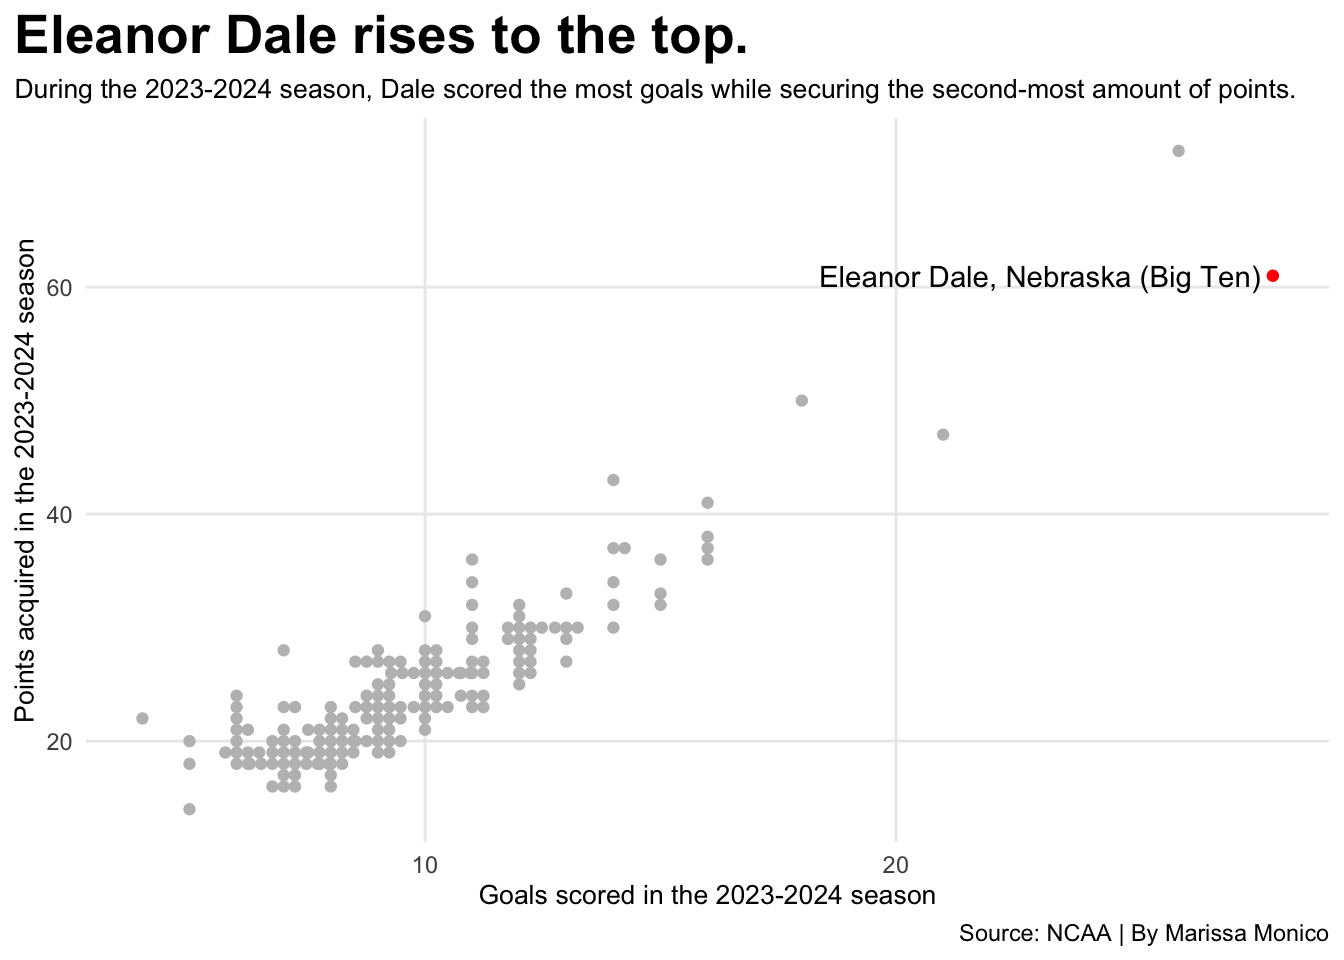
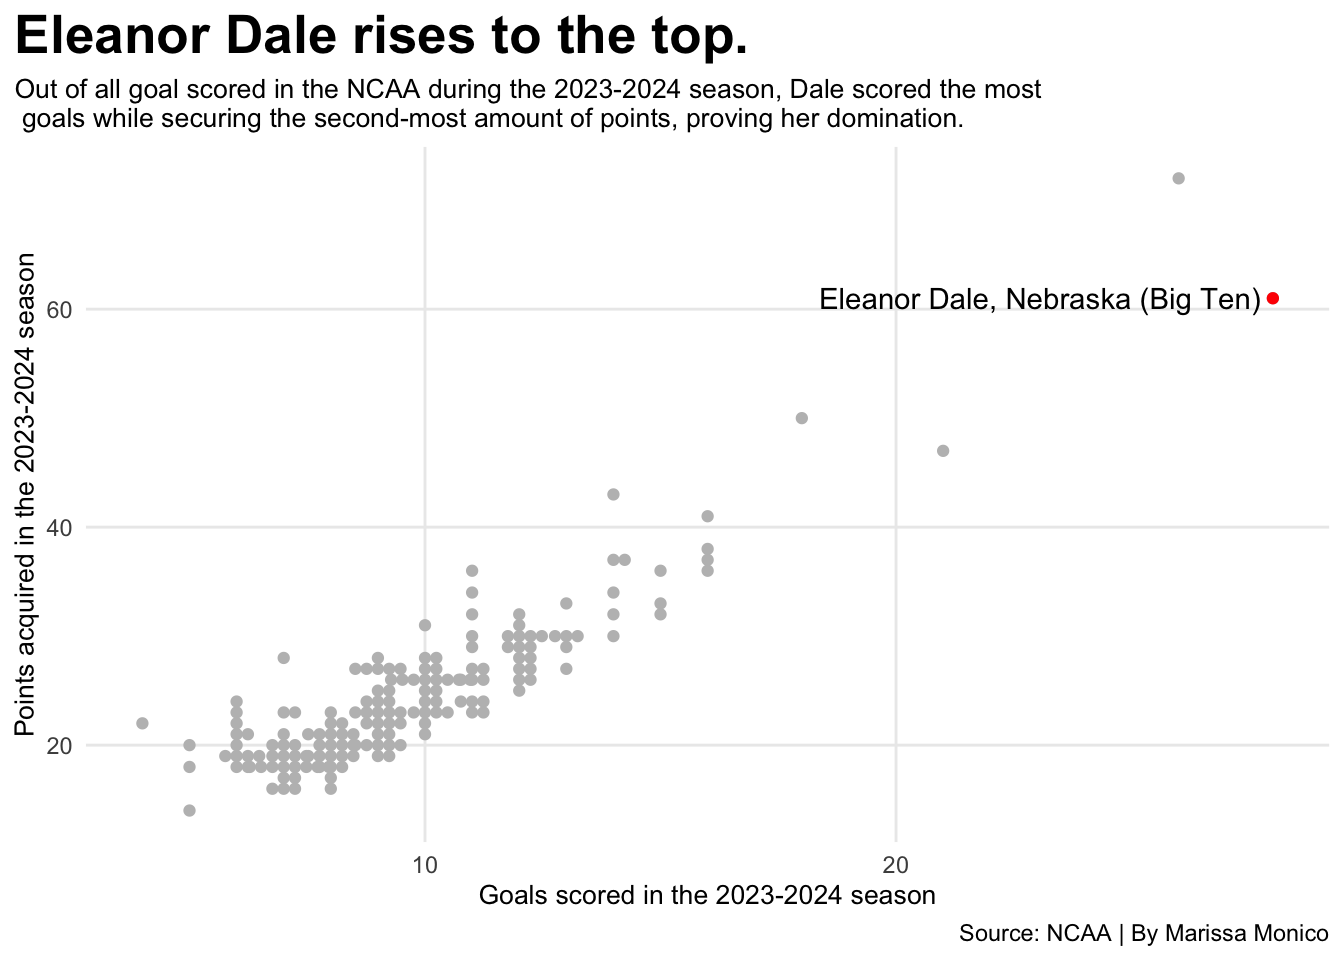
fix5

diff --git a/posts/nebraska-womens-soccer-b1g/index.html b/posts/nebraska-womens-soccer-b1g/index.html
@@ -7,9 +7,9 @@
 <meta name="viewport" content="width=device-width, initial-scale=1.0, user-scalable=yes">
 
 <meta name="author" content="Marissa Monico">
-<meta name="dcterms.date" content="2026-04-01">
+<meta name="dcterms.date" content="2026-04-09">
 
-<title>Is is possible for one player to carry the whole team? 2023 Nebraska women’s soccer is the perfect team to look at. – Marissa Monico's Blog</title>
+<title>Is is possible for one player to carry the whole program? 2023 Nebraska women’s soccer is the perfect team to look at. – Marissa Monico's Blog</title>
 <style>
 code{white-space: pre-wrap;}
 span.smallcaps{font-variant: small-caps;}
@@ -154,7 +154,7 @@ pre > code.sourceCode > span > a:first-child::before { text-decoration: underlin
 <header id="title-block-header" class="quarto-title-block default page-columns page-full">
   <div class="quarto-title-banner page-columns page-full">
     <div class="quarto-title column-body">
-      <h1 class="title">Is is possible for one player to carry the whole team? 2023 Nebraska women’s soccer is the perfect team to look at.</h1>
+      <h1 class="title">Is is possible for one player to carry the whole program? 2023 Nebraska women’s soccer is the perfect team to look at.</h1>
                                 <div class="quarto-categories">
                 <div class="quarto-category">nebraska</div>
                 <div class="quarto-category">soccer</div>
@@ -178,7 +178,7 @@ pre > code.sourceCode > span > a:first-child::before { text-decoration: underlin
       <div>
       <div class="quarto-title-meta-heading">Published</div>
       <div class="quarto-title-meta-contents">
-        <p class="date">April 1, 2026</p>
+        <p class="date">April 9, 2026</p>
       </div>
     </div>
     
@@ -197,7 +197,10 @@ pre > code.sourceCode > span > a:first-child::before { text-decoration: underlin
 
 
 
-<p>words words words.</p>
+<p>Nebraska sports in general are, let us face it, the poster-children for disappointment. Whenever it seems like a sport is coming close to a National Championship, or any sort of big win, our cover is blown. We have seen it with volleyball, football and now basketball. Not to say we should not be proud of these sports and their accomplishments, but it is hard to believe good things can happen to Nebraska Athletics.</p>
+<p>So, when the womens soccer team won the B1G tournament in 2023, teary-eyed Nebraska fans started to hope this could mean something for a program that was not known for its success. That hope crumpled as the 2024 team lost game after game, plumetting to the bottom of the B1G at one point, then settling in a below average position.</p>
+<p>Why is that?</p>
+<p>The team had almost the same roster as the year before, had a good recruiting off-season and had all the momentum going into 2024. What changed?</p>
 <div class="cell">
 <details class="code-fold">
 <summary>Code</summary>
@@ -291,6 +294,8 @@ dbl (5): Rank, Team Games, Goals, GA, Diff
 </div>
 </div>
 </div>
+<p>The slope between the two seasons is dramatic. While teams like Penn State stayed about even, or others had a slight uptick, only one team took a noticeable loss: Nebraska. The team scored 67 goals in the 2023-2024 season and 24 in the next. That is +38 down to -7.</p>
+<p>Obviously, there was a big contributor that is missing. What if it had nothing to do with the offense? What if it was the defense that needs to be looked at?</p>
 <div class="cell">
 <details class="code-fold">
 <summary>Code</summary>
@@ -360,6 +365,7 @@ dbl (5): Rank, Team Games, Goals, GA, Diff
 </div>
 </div>
 </div>
+<p>Nebraska is sitting with 29 goals scored against in the 2023 season, in relation to their 67 goals scored. They put the rest of the B1G to shame. What does the damage look like in 2024?</p>
 <div class="cell">
 <details class="code-fold">
 <summary>Code</summary>
@@ -388,6 +394,10 @@ dbl (5): Rank, Team Games, Goals, GA, Diff
 </div>
 </div>
 </div>
+<p>The difference is so vast that Nebraska gets lost in the data. In reality, they only allowed two more goals than the year before, 31. However, that does not matter when you cannot score goals.</p>
+<p>Defense does not seem to be the problem either. The goaltending was solid, and the back line was virtually the same as the year before.</p>
+<p>So, what caused Nebraska women’s soccer downfall? What was the factor?</p>
+<p>Eleanor Dale.</p>
 <div class="cell">
 <details class="code-fold">
 <summary>Code</summary>
@@ -425,7 +435,7 @@ dbl (6): Rank, Games, Goals, Assists, Points, Per Game
 <span id="cb14-15"><a href="#cb14-15" aria-hidden="true" tabindex="-1"></a>    <span class="at">x=</span><span class="st">"Goals scored in the 2023-2024 season"</span>, </span>
 <span id="cb14-16"><a href="#cb14-16" aria-hidden="true" tabindex="-1"></a>    <span class="at">y=</span><span class="st">"Points acquired in the 2023-2024 season"</span>, </span>
 <span id="cb14-17"><a href="#cb14-17" aria-hidden="true" tabindex="-1"></a>    <span class="at">title=</span><span class="st">"Eleanor Dale rises to the top."</span>, </span>
-<span id="cb14-18"><a href="#cb14-18" aria-hidden="true" tabindex="-1"></a>    <span class="at">subtitle=</span><span class="st">"During the 2023-2024 season, Dale scored the most goals while securing the second-most amount of points."</span>, </span>
+<span id="cb14-18"><a href="#cb14-18" aria-hidden="true" tabindex="-1"></a>    <span class="at">subtitle=</span><span class="st">"Out of all goal scored in the NCAA during the 2023-2024 season, Dale scored the most </span><span class="sc">\n</span><span class="st"> goals while securing the second-most amount of points, proving her domination."</span>, </span>
 <span id="cb14-19"><a href="#cb14-19" aria-hidden="true" tabindex="-1"></a>    <span class="at">caption=</span><span class="st">"Source: NCAA | By Marissa Monico"</span></span>
 <span id="cb14-20"><a href="#cb14-20" aria-hidden="true" tabindex="-1"></a>    ) <span class="sc">+</span></span>
 <span id="cb14-21"><a href="#cb14-21" aria-hidden="true" tabindex="-1"></a>  <span class="fu">theme_minimal</span>() <span class="sc">+</span> </span>
@@ -445,6 +455,9 @@ dbl (6): Rank, Games, Goals, Assists, Points, Per Game
 </div>
 </div>
 </div>
+<p>Dale was the leading goal scorer in all of the NCAA during the 2023 season, with 28 respectively. That is four more than the whole team managed to put up in the following season. Sarah Weber, the teams second-leading goal scorer had 16 in 2023, then 11 in 2024.</p>
+<p>The absence of Dale created waves throughout the Nebraska offense that the rest of the team could not cover. Goals win games. So, when you cannot score, you cannot win.</p>
+<p>Dale now plays overseas for Sunderland, where she is a striker, continuing her dominance on the pitch.</p>
 
 
 

diff --git a/index.html b/index.html
@@ -209,7 +209,45 @@ window.Quarto = {
 
 <div class="quarto-listing quarto-listing-container-default" id="listing-listing">
 <div class="list quarto-listing-default">
-<div class="quarto-post image-right" data-index="0" data-categories="bmV3cyUyQ2NvZGUlMkNhbmFseXNpcw==" data-listing-date-sort="1775019600000" data-listing-file-modified-sort="1775075426597" data-listing-date-modified-sort="NaN" data-listing-reading-time-sort="1" data-listing-word-count-sort="9">
[1 lines of base64/hex data omitted]
+<div class="thumbnail"><a href="./posts/nebraska-womens-soccer-b1g/index.html" class="no-external">
+
+<img loading="lazy" src="./posts/nebraska-womens-soccer-b1g/image.png" class="thumbnail-image">
+
+</a></div>
+<div class="body">
+<h3 class="no-anchor listing-title">
+<a href="./posts/nebraska-womens-soccer-b1g/index.html" class="no-external">Is is possible for one player to carry the whole program? 2023 Nebraska women’s soccer is the perfect team to look at.</a>
+</h3>
+<div class="listing-categories">
+
+<div class="listing-category" onclick="window.quartoListingCategory('bmVicmFza2E='); return false;">nebraska</div>
+
+<div class="listing-category" onclick="window.quartoListingCategory('c29jY2Vy'); return false;">soccer</div>
+
+<div class="listing-category" onclick="window.quartoListingCategory('YmlndGVu'); return false;">bigten</div>
+
+<div class="listing-category" onclick="window.quartoListingCategory('d29tZW5z'); return false;">womens</div>
+
+<div class="listing-category" onclick="window.quartoListingCategory('Y2hhbXBpb25z'); return false;">champions</div>
+
+</div>
+<div class="delink listing-description"><a href="./posts/nebraska-womens-soccer-b1g/index.html" class="no-external">
+Nebraska sports in general are, let us face it, the poster-children for disappointment. Whenever it seems like a sport is coming close to a National Championship, or any…
+</a></div>
+</div>
+<div class="metadata">
+<a href="./posts/nebraska-womens-soccer-b1g/index.html" class="no-external">
+<div class="listing-date">
+Apr 9, 2026
+</div>
+<div class="listing-author">
+Marissa Monico
+</div>
+</a>
+</div>
+</div>
+<div class="quarto-post image-right" data-index="1" data-categories="bmV3cyUyQ2NvZGUlMkNhbmFseXNpcw==" data-listing-date-sort="1775019600000" data-listing-file-modified-sort="1775075426597" data-listing-date-modified-sort="NaN" data-listing-reading-time-sort="1" data-listing-word-count-sort="9">
 <div class="thumbnail"><a href="./posts/post-with-code/index.html" class="no-external">
 
 <img loading="lazy" src="./posts/post-with-code/image.jpg" class="thumbnail-image">
@@ -239,44 +277,6 @@ Apr 1, 2026
 </div>
 <div class="listing-author">
 Harlow Malloc
-</div>
-</a>
-</div>
-</div>
[1 lines of base64/hex data omitted]
-<div class="thumbnail"><a href="./posts/nebraska-womens-soccer-b1g/index.html" class="no-external">
-
-<img loading="lazy" src="./posts/nebraska-womens-soccer-b1g/image.png" class="thumbnail-image">
-
-</a></div>
-<div class="body">
-<h3 class="no-anchor listing-title">
-<a href="./posts/nebraska-womens-soccer-b1g/index.html" class="no-external">Is is possible for one player to carry the whole team? 2023 Nebraska women’s soccer is the perfect team to look at.</a>
-</h3>
-<div class="listing-categories">
-
-<div class="listing-category" onclick="window.quartoListingCategory('bmVicmFza2E='); return false;">nebraska</div>
-
-<div class="listing-category" onclick="window.quartoListingCategory('c29jY2Vy'); return false;">soccer</div>
-
-<div class="listing-category" onclick="window.quartoListingCategory('YmlndGVu'); return false;">bigten</div>
-
-<div class="listing-category" onclick="window.quartoListingCategory('d29tZW5z'); return false;">womens</div>
-
-<div class="listing-category" onclick="window.quartoListingCategory('Y2hhbXBpb25z'); return false;">champions</div>
-
-</div>
-<div class="delink listing-description"><a href="./posts/nebraska-womens-soccer-b1g/index.html" class="no-external">
-words words words.
-</a></div>
-</div>
-<div class="metadata">
-<a href="./posts/nebraska-womens-soccer-b1g/index.html" class="no-external">
-<div class="listing-date">
-Apr 1, 2026
-</div>
-<div class="listing-author">
-Marissa Monico
 </div>
 </a>
 </div>
